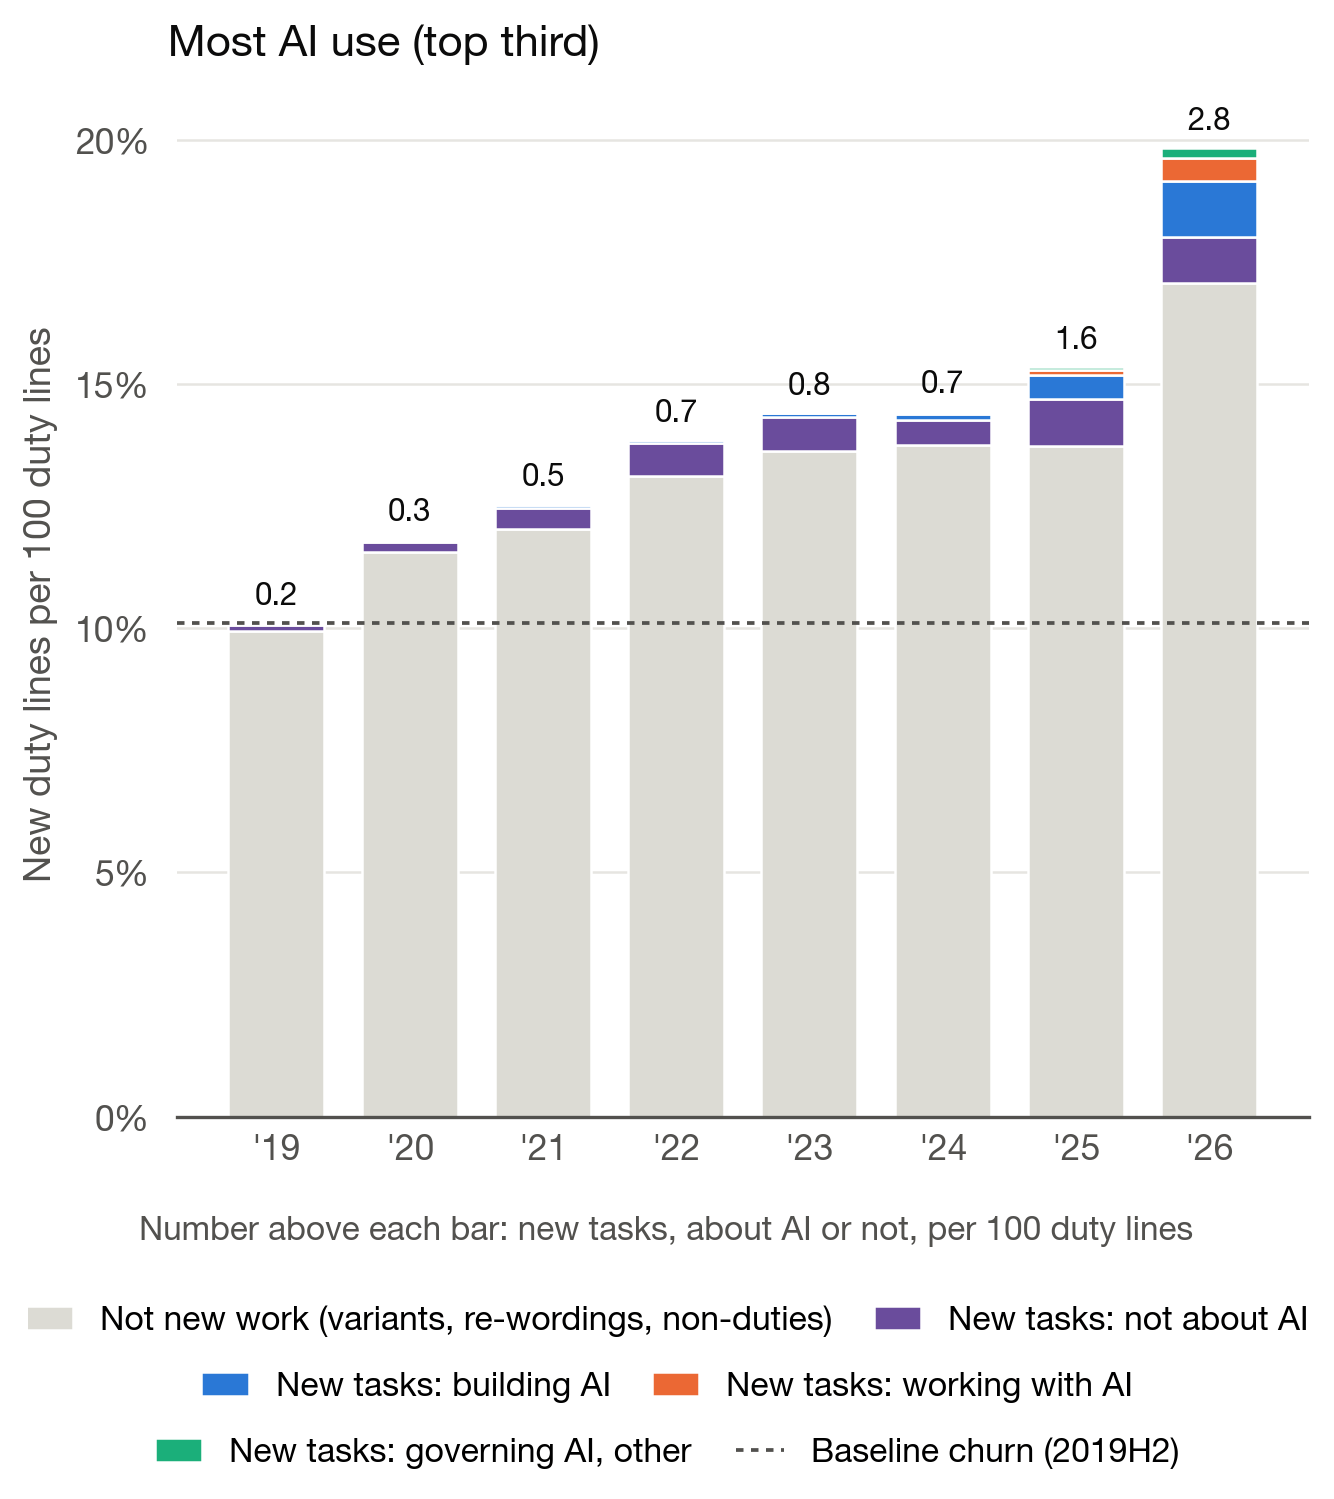
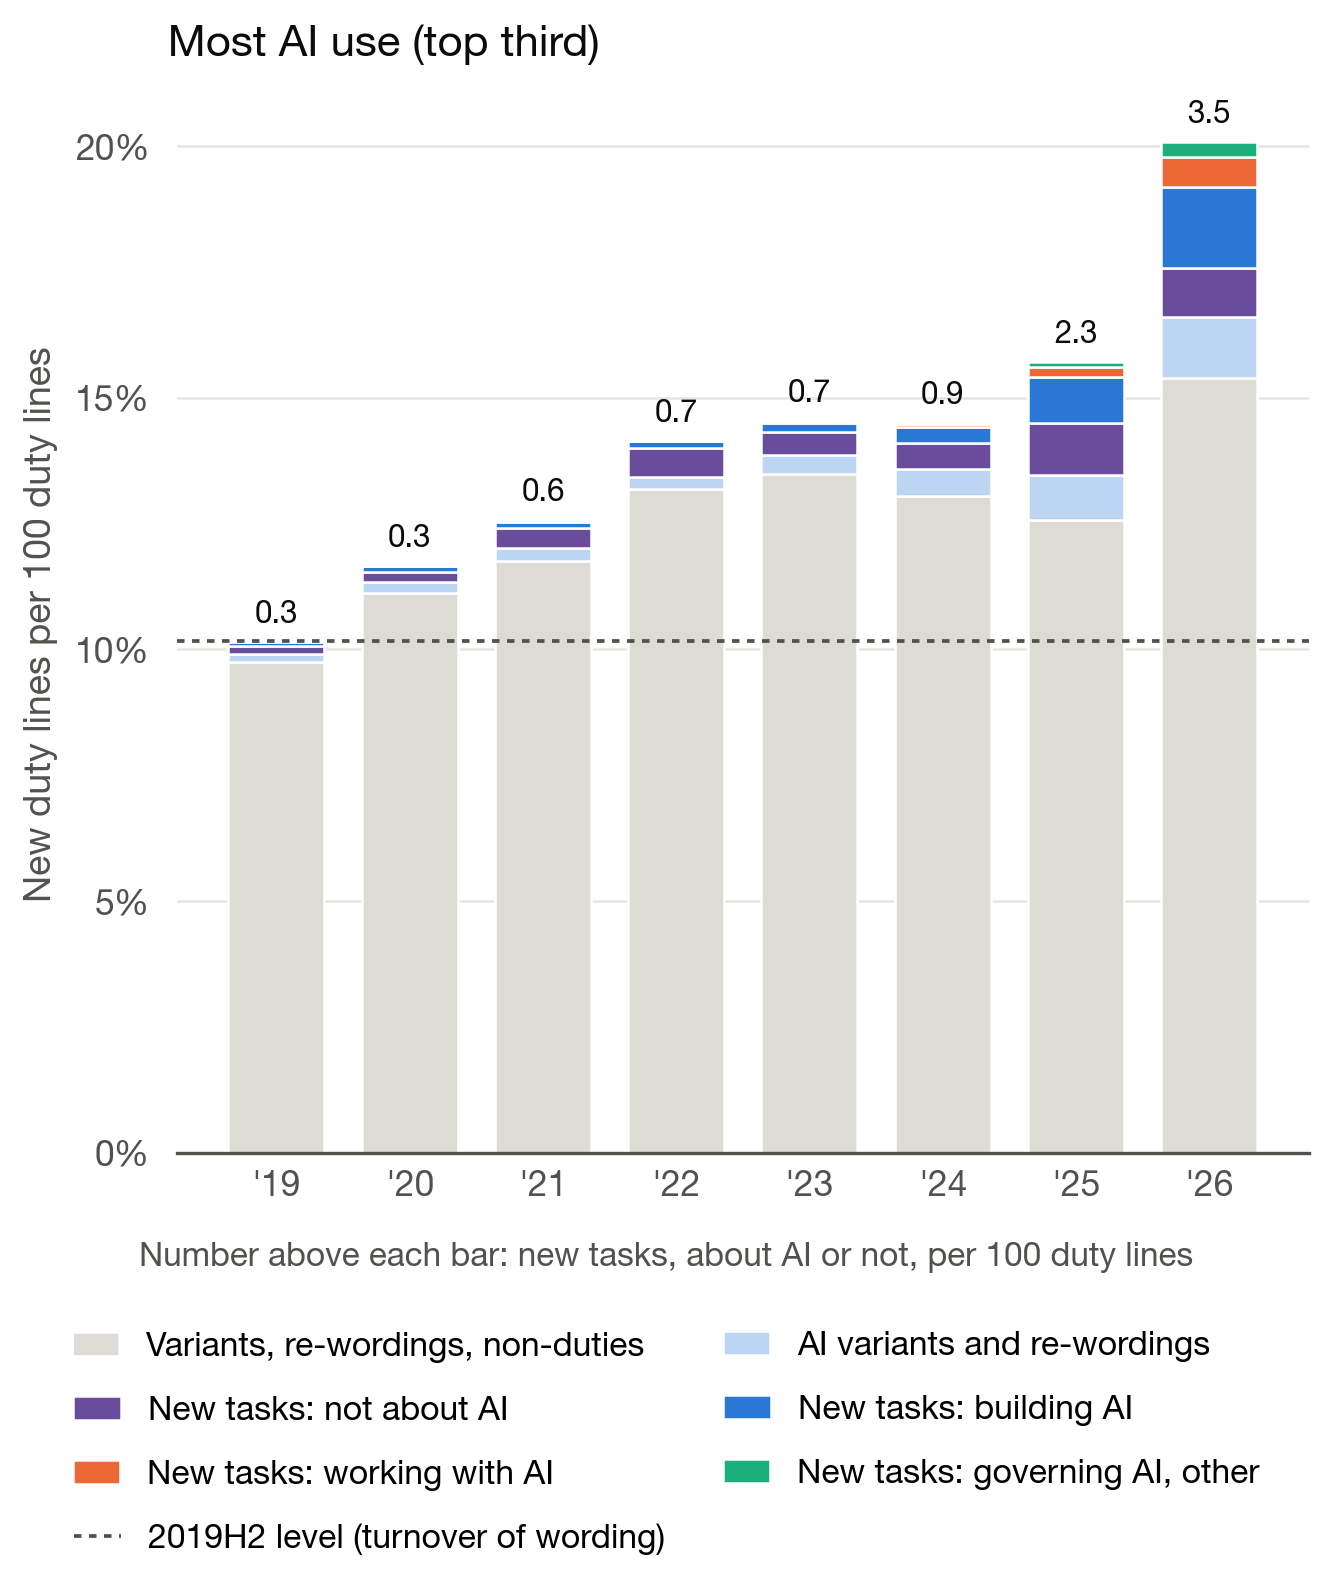
update papers

diff --git a/research.html b/research.html
@@ -256,12 +256,12 @@
             <div class="paper-links">
                 <details>
                     <summary>Abstract</summary>
-                    <p class="abstract-text">Whether generative AI raises or lowers the demand for labour depends in part on the new work it creates. I measure that new work directly in 18.6 million duty statements from US job postings, 2019–2026, drawn from a new dataset of applicant-tracking-system pages archived by Common Crawl. Duty statements with no close counterpart in early-2019 postings are flagged as new, and a language model classifies them to separate new tasks from variants of old ones. In the third of occupations that use AI most, duty statements that describe new tasks rose from under one in every 100 in 2022 to nearly three in 2026, most of them about AI itself. Working with AI, rather than building it, rose from 4% of the duty statements about AI in 2022 to 21% in 2026. Beyond tasks that are new to the entire economy, existing tasks are also diffusing across occupations: postings requesting technical and data tools, such as dashboards, in roles that previously did not use them rose about threefold between 2022 and 2026. The pay premium of postings with AI duties largely disappears within the same job title at the same firm.</p>
+                    <p class="abstract-text">Whether generative AI raises or lowers the demand for labour depends in part on the new work it creates. I measure the new tasks that employers advertise in 18.4 million duty statements from US job postings, 2019–2026, drawn from a new dataset of applicant-tracking-system pages archived by Common Crawl. Duty statements with no close counterpart in early-2019 postings are flagged as new, and a language model separates new tasks from variants of old ones. In the third of occupations that use AI most, duties that describe new tasks rose from under one in every 100 in 2022 to about three and a half in 2026, with most of the increase coming from work on or with AI itself. Working with AI, rather than building it, rose from 4% of AI duties in 2019–23 to 22% in 2026. Beyond tasks that are new to the entire economy, existing tasks are also diffusing across occupations: postings that ask for technical and data tools, such as dashboards, in occupations whose duties did not name them in 2019–20 rose about threefold between 2022 and 2026. Postings with AI duties advertise higher pay, though most of the premium is accounted for by the firms and job titles that post them.</p>
                 </details>
                 <a href="https://papers.ssrn.com/sol3/papers.cfm?abstract_id=7608062" target="_blank">Paper</a>
             </div>
             <a href="ai_job_postings_new_work.png" target="_blank" class="paper-image-link">
-                <img src="ai_job_postings_new_work.png" alt="New duty lines per 100 duty lines in US job postings, 2019 to 2026, split into variants, new non-AI tasks, and new AI tasks, in the third of occupations with the most AI use" class="paper-image" style="max-width: 60%;">
+                <img src="ai_job_postings_new_work.png" alt="New duty lines per 100 duty lines in US job postings, 2019 to 2026, split into re-wordings of old duties (AI or not), new non-AI tasks, and new AI tasks, in the third of occupations with the most AI use" class="paper-image" style="max-width: 60%;">
             </a>
         </div>
 
@@ -273,7 +273,7 @@
             <div class="paper-links">
                 <details>
                     <summary>Abstract</summary>
-                    <p class="abstract-text">METR evaluates AI agents by the length of task, in human working time, that they can complete on their own. This paper puts that measure on an economic scale. I map human time estimates from the Anthropic Economic Index to 18,796 O*NET tasks and weight each task by the probability of success that METR’s curves imply for its length. Tasks carrying 46 per cent of the US wage bill are expected to succeed under the latest frontier model, up from 14 per cent at the start of 2025. Across jobs, coverage is thinner: 19 per cent of US employment is in occupations where at least half of the work is expected to succeed, and no occupation reaches 90 per cent. This capability measure is grounded in measured success rates of AI agents and updates with each new model, so it can track the frontier as it moves and provide a capability-based benchmark for the work AI could automate in macroeconomic scenarios of AI.</p>
+                    <p class="abstract-text">How much work can AI agents perform autonomously? A key predictor of whether an AI agent can complete a task is how long the task takes a human, and on the benchmarks of METR (Model Evaluation and Threat Research) the time horizon of frontier models has doubled roughly every four months since 2023. I combine METR’s agent success curves with human task-duration estimates from the Anthropic Economic Index across 18,796 tasks in O*NET, the US Occupational Information Network, weighting each task’s share of the US wage bill by the probability of autonomous completion that METR’s curves imply. Tasks accounting for 46 percent of the US wage bill are expected to succeed under the latest frontier model, more than three times the 14 percent at the start of 2025. Coverage of individual jobs is broad but partial: no occupation reaches 90 percent. Unlike exposure rubrics, which ask whether AI could speed up a task, or usage data, which conflate capability with adoption, the measure gives macroeconomic models a capability-based value for the share of work AI could automate, one that moves with the frontier.</p>
                 </details>
                 <a href="https://papers.ssrn.com/sol3/papers.cfm?abstract_id=7570818" target="_blank">Paper</a>
                 <a href="ai_task_value.pdf" target="_blank">Draft</a>
